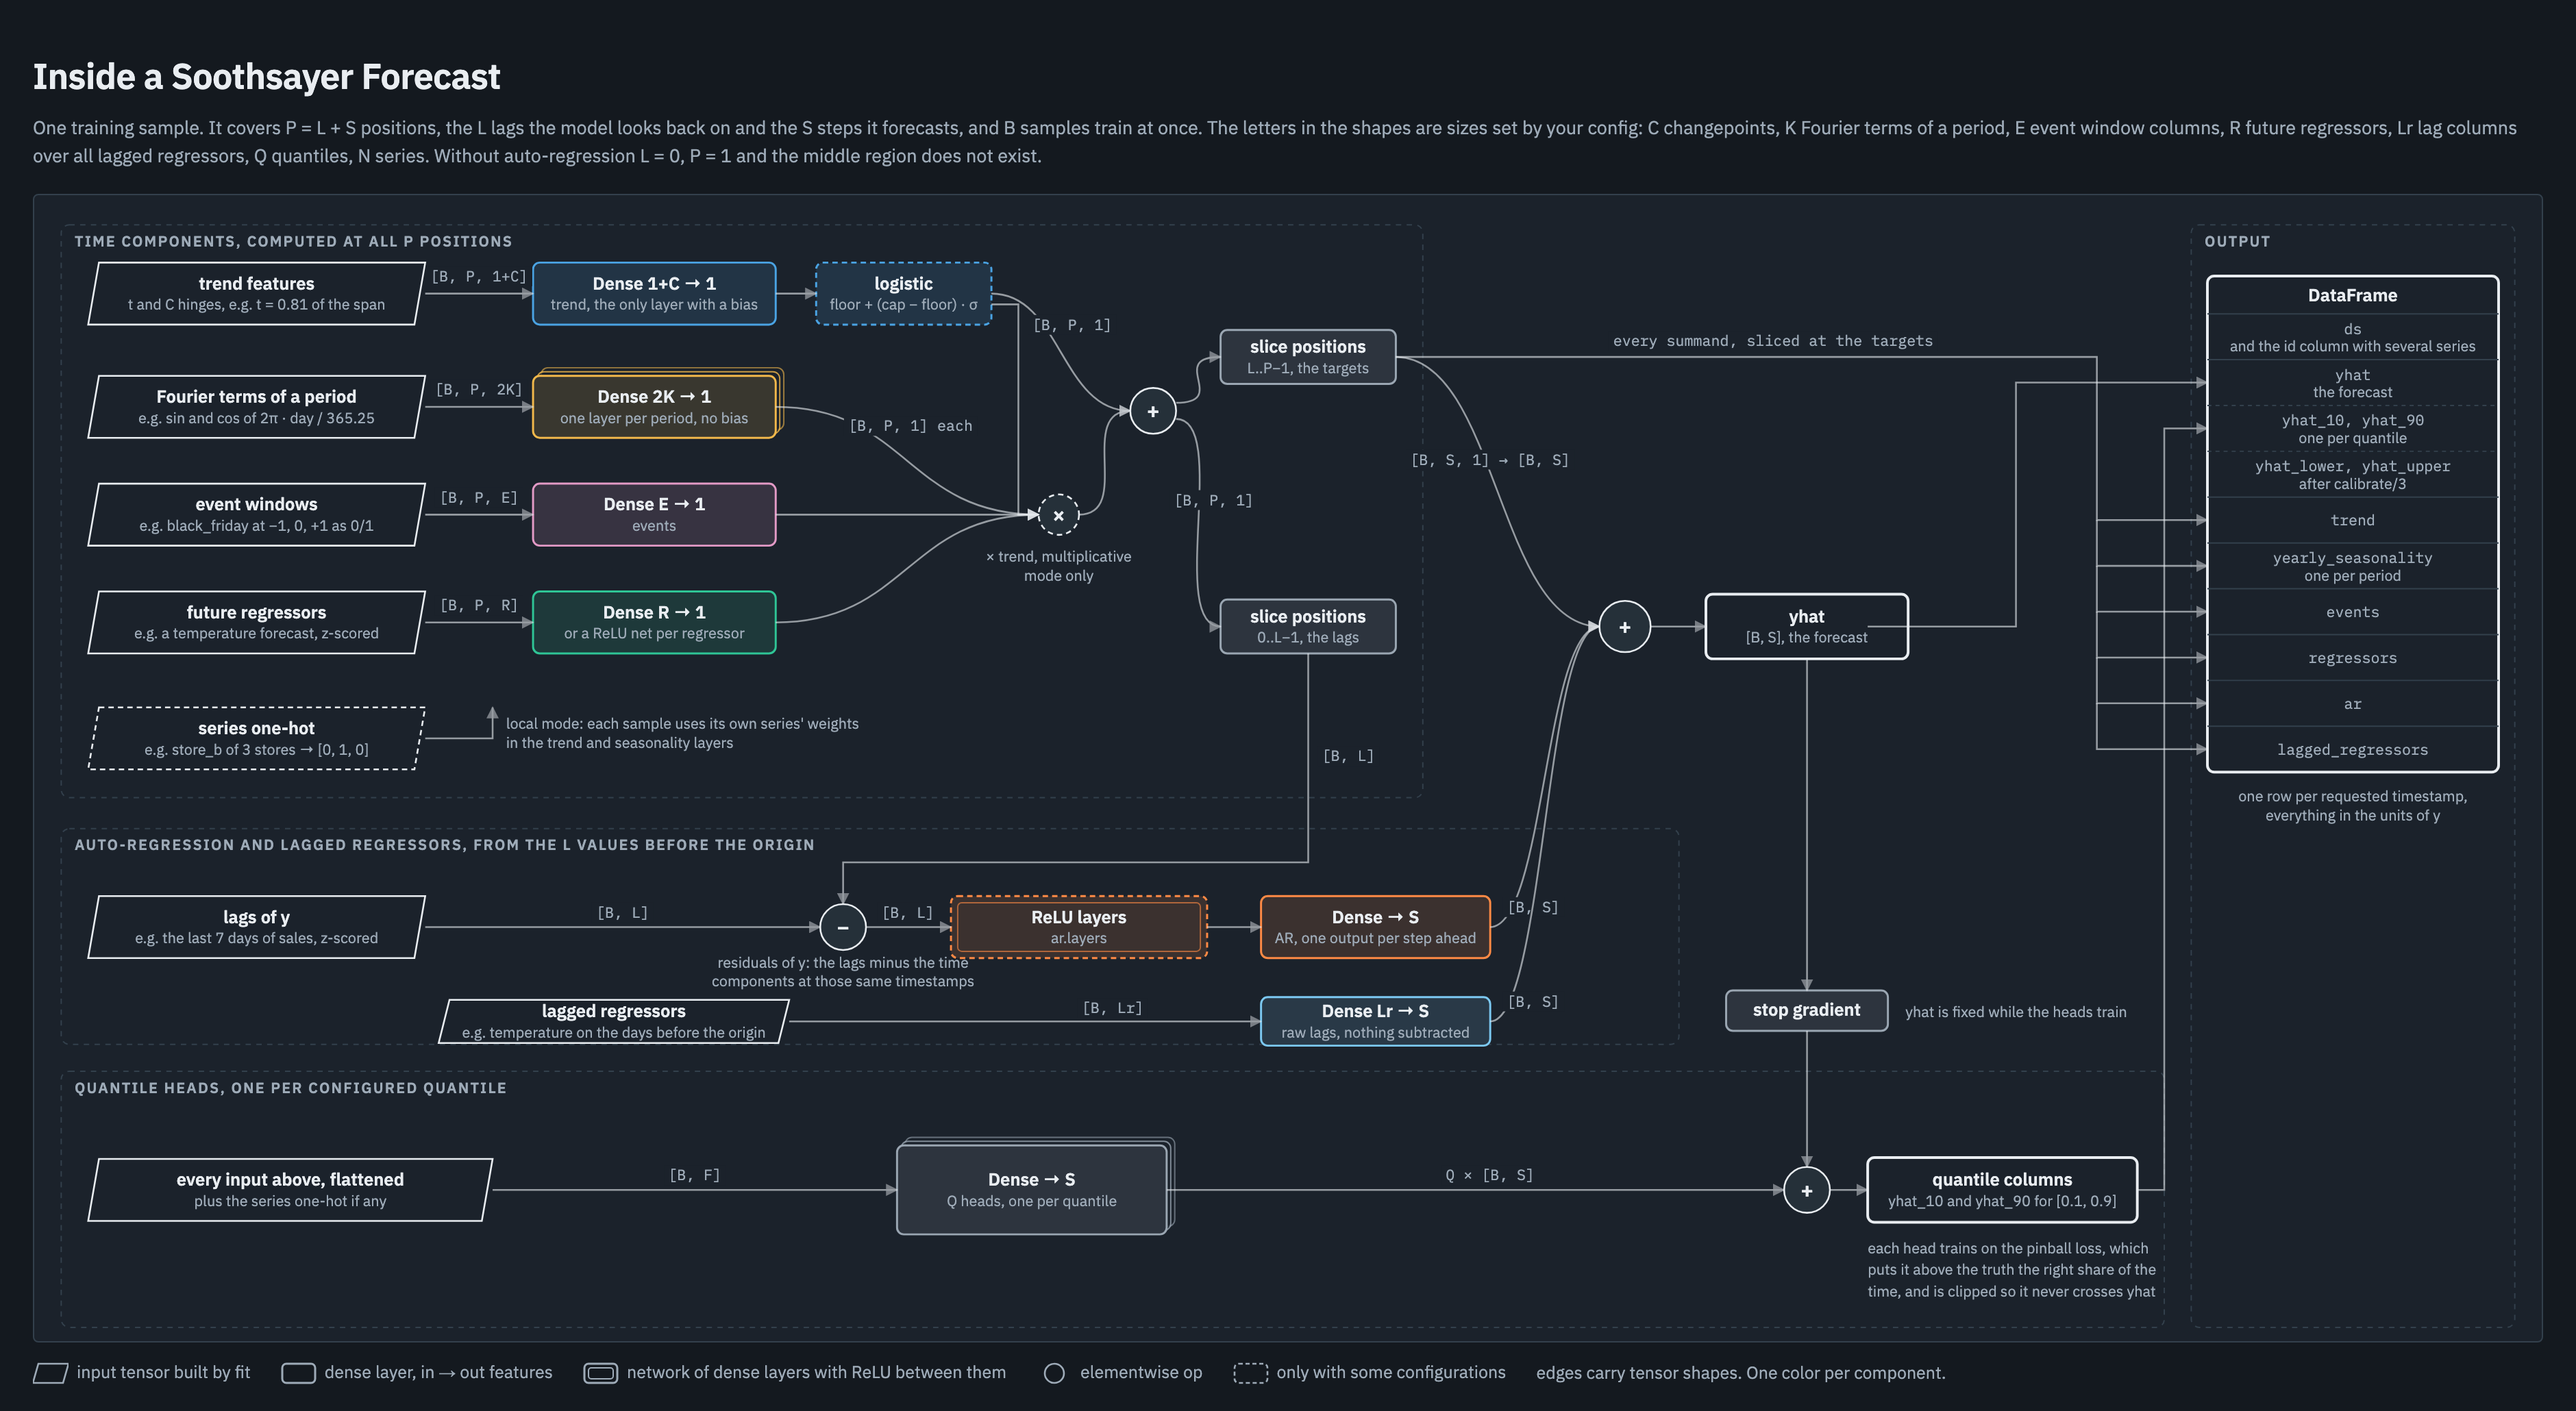
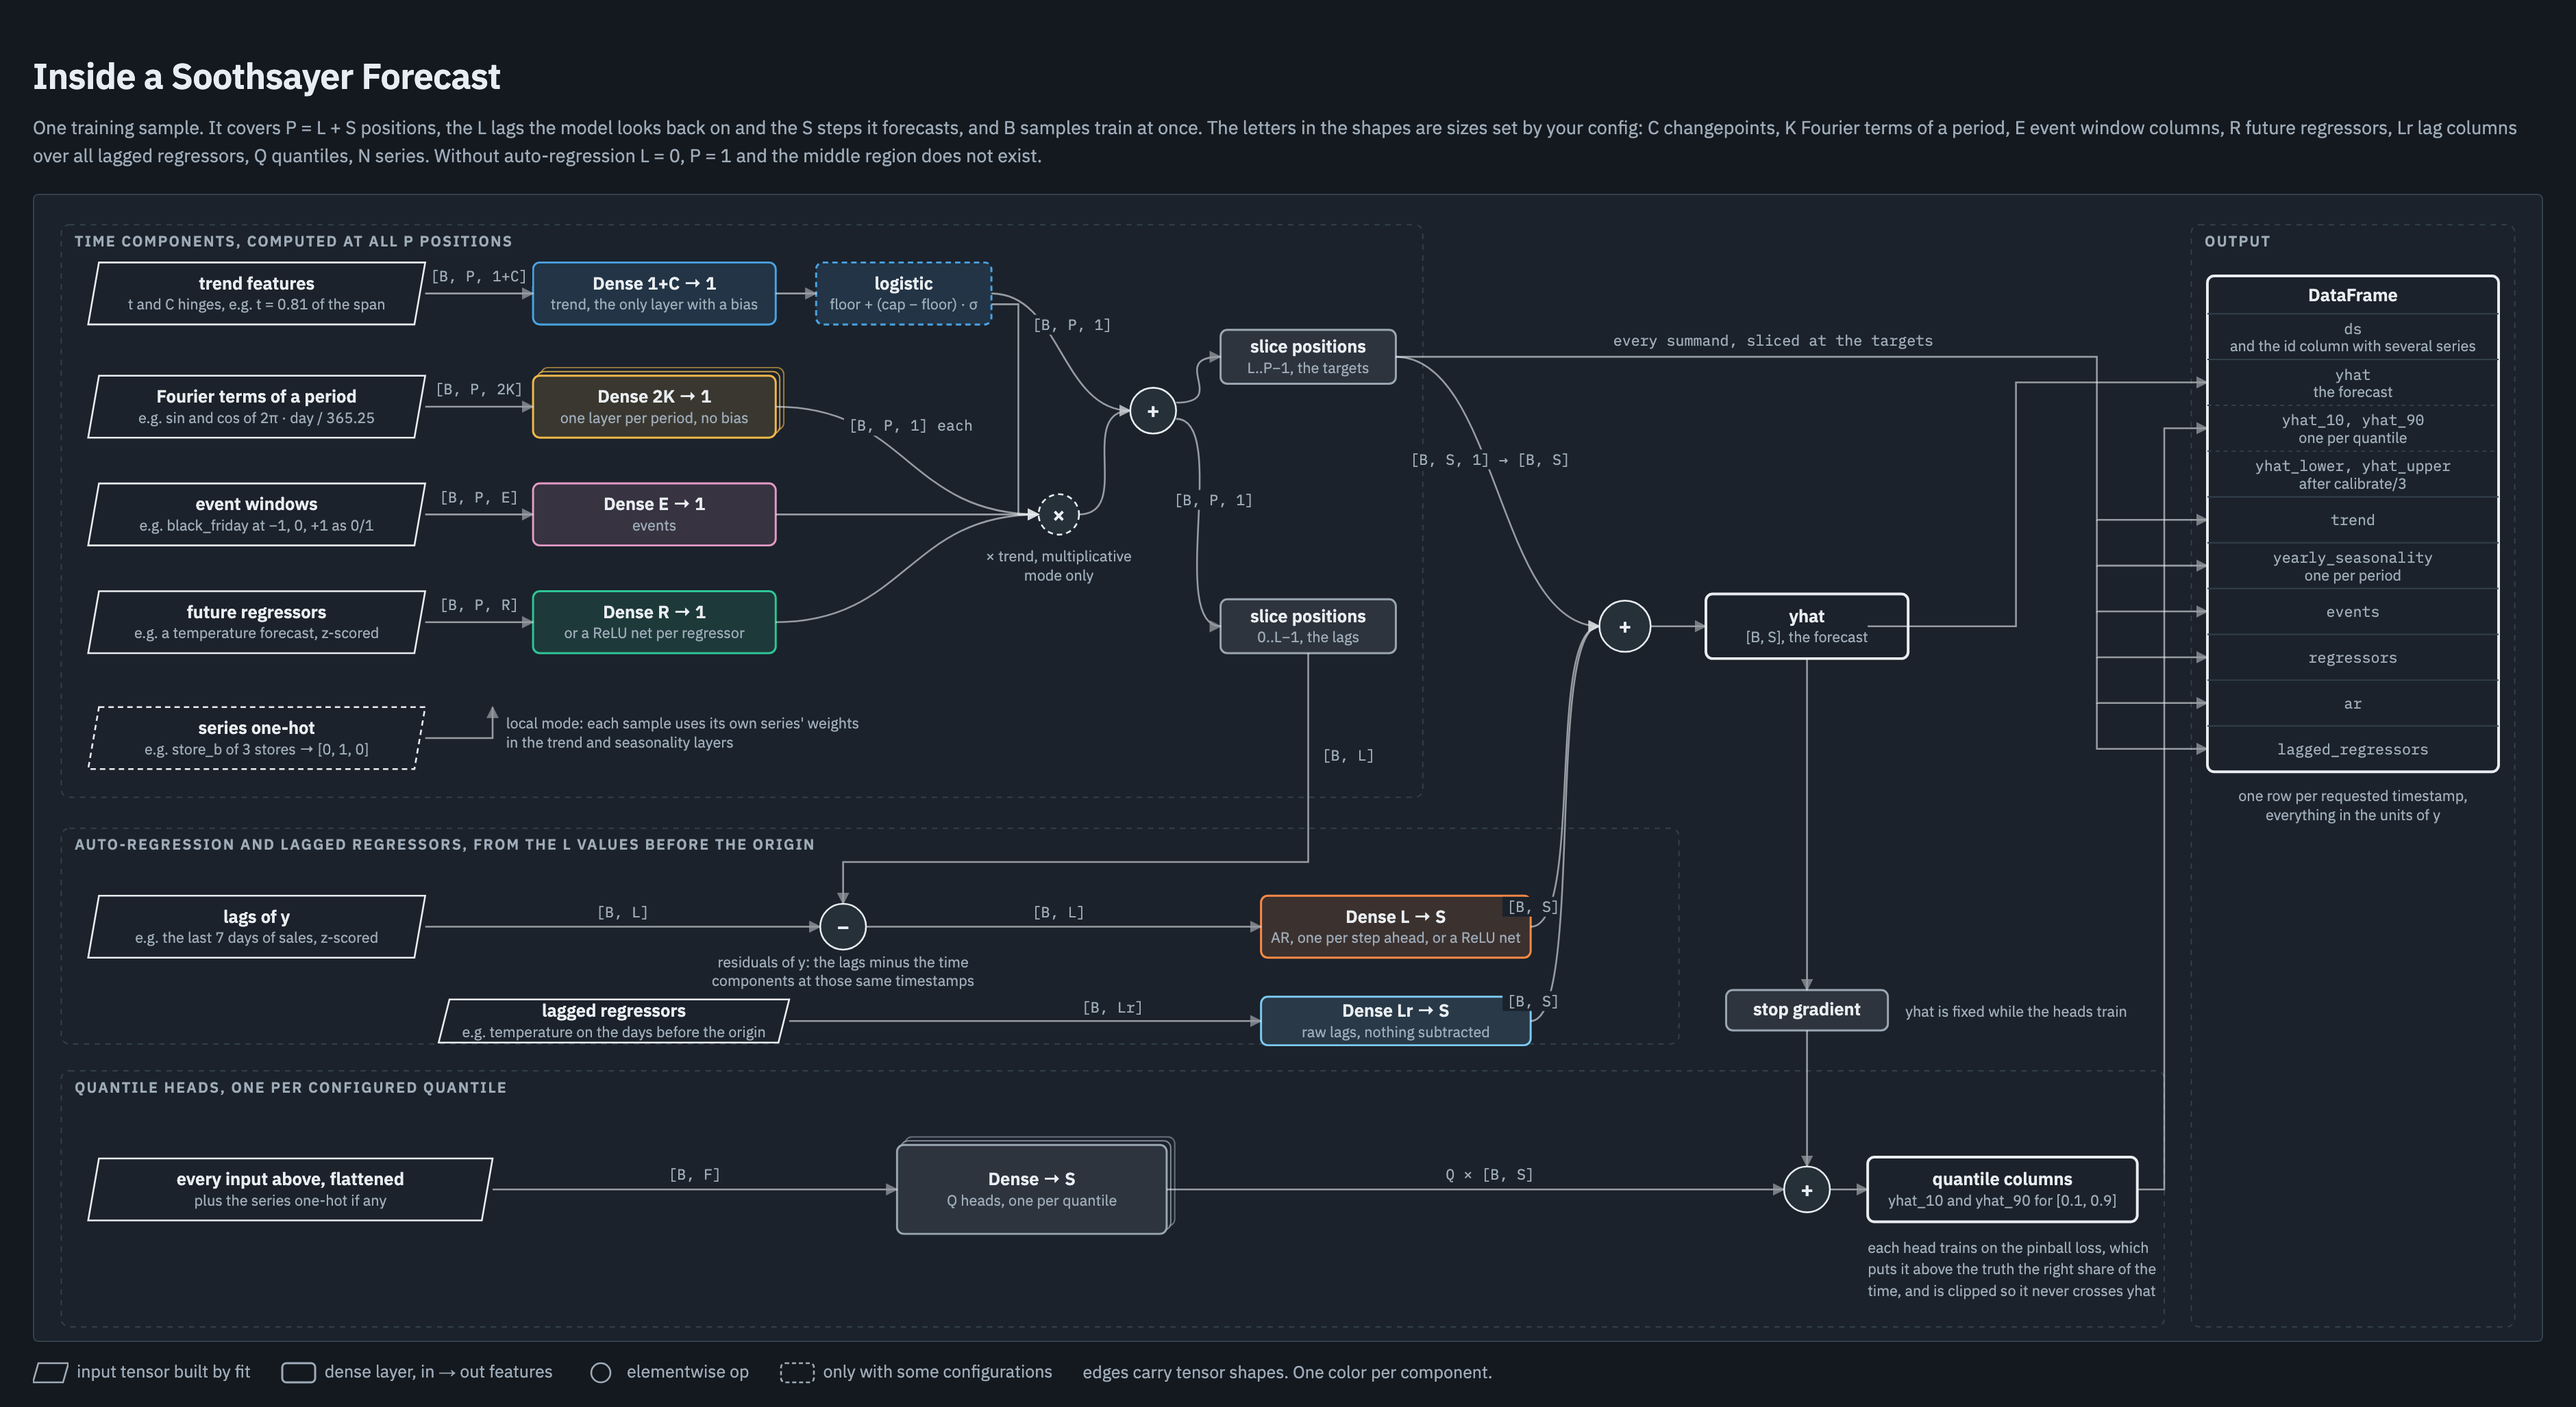
docs: one way to show the optional ReLU nets in the figure
The AR branch had its own dashed ReLU box while regressors and lagged regressors mention theirs in a caption. Now all three say it in the caption.

diff --git a/assets/network.html b/assets/network.html
@@ -51,12 +51,11 @@
   <div class="legend">
     <span><svg viewBox="0 0 26 18"><polygon points="4,2 26,2 22,16 0,16" fill="none" stroke="currentColor" stroke-width="1.3"/></svg>input tensor built by fit</span>
     <span><svg viewBox="0 0 26 18"><rect x="1" y="2" width="24" height="14" rx="3" fill="none" stroke="currentColor" stroke-width="1.5"/></svg>dense layer, in → out features</span>
-    <span><svg viewBox="0 0 26 18"><rect x="1" y="2" width="24" height="14" rx="3" fill="none" stroke="currentColor" stroke-width="1.5"/><rect x="4" y="5" width="18" height="8" rx="2" fill="none" stroke="currentColor" stroke-width="1"/></svg>network of dense layers with ReLU between them</span>
     <span><svg viewBox="0 0 26 18"><circle cx="13" cy="9" r="7" fill="none" stroke="currentColor" stroke-width="1.3"/></svg>elementwise op</span>
     <span><svg viewBox="0 0 26 18"><rect x="1" y="2" width="24" height="14" rx="3" fill="none" stroke="currentColor" stroke-width="1.3" stroke-dasharray="3 2"/></svg>only with some configurations</span>
     <span>edges carry tensor shapes. One color per component.</span>
   </div>
-  <p class="note">Everything with a dashed outline depends on the config: the logistic saturation on <code>growth: :logistic</code>, the × trend step on multiplicative seasonality, events or regressors, the ReLU layers on <code>ar.layers</code>, <code>regressors</code> with <code>layers</code> and <code>lagged_regressors_layers</code>, the series one-hot on <code>series.column</code>, and the whole quantile region on <code>quantiles</code>.</p>
+  <p class="note">Everything with a dashed outline depends on the config: the logistic saturation on <code>growth: :logistic</code>, the × trend step on multiplicative seasonality, events or regressors, the ReLU nets on <code>ar.layers</code>, a regressor's <code>layers</code> and <code>lagged_regressors_layers</code>, the series one-hot on <code>series.column</code>, and the whole quantile region on <code>quantiles</code>.</p>
 </div>
 
 <script>
@@ -151,12 +150,10 @@
   edge(sliceL, minus, "[B, L]", { from: bottom, to: top, path: "M 945 340 L 945 495 L 600 495 L 600 526", lx: 975, ly: 420 });
   text(600, 573, "residuals of y: the lags minus the time", "sub", "middle");
   text(600, 587, "components at those same timestamps", "sub", "middle");
-  const arNet = dense(680, 520, 190, 46, "ReLU layers", "ar.layers", "var(--ar)", { mlp: true, optional: true });
-  edge(minus, arNet, "[B, L]", { lx: 648, ly: 536 });
-  const arOut = dense(910, 520, 170, 46, "Dense → S", "AR, one output per step ahead", "var(--ar)");
-  edge(arNet, arOut, null);
+  const arOut = dense(910, 520, 200, 46, "Dense L → S", "AR, one per step ahead, or a ReLU net", "var(--ar)");
+  edge(minus, arOut, "[B, L]", { lx: 760, ly: 536 });
   const lagReg = input(300, 597, 260, 32, "lagged regressors", "e.g. temperature on the days before the origin");
-  const lagDense = dense(910, 595, 170, 36, "Dense Lr → S", "raw lags, nothing subtracted", "var(--lagged)");
+  const lagDense = dense(910, 595, 200, 36, "Dense Lr → S", "raw lags, nothing subtracted", "var(--lagged)");
   edge(lagReg, lagDense, "[B, Lr]", { lx: 800, ly: 607 });
 
   // forecast
